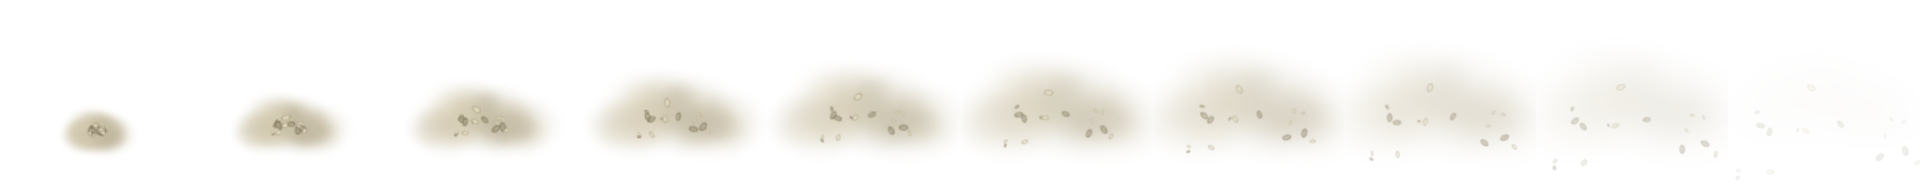
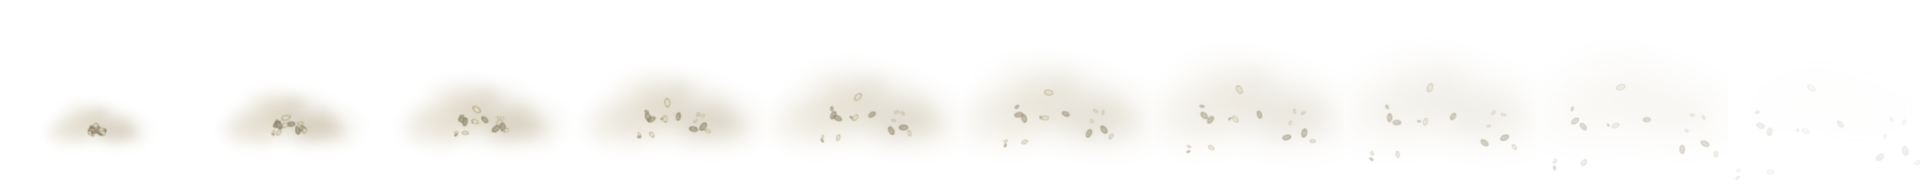
Realistic splatter: rendered blood/dust/spark/spell sprites (gorefx2.js), fix gore not showing in fights

diff --git a/game/i18n_gore.js b/game/i18n_gore.js
@@ -19,3 +19,23 @@ Object.assign(I18N_EXTRA.words, {
   "Settings → Fights → Blood and gore: Off, Low or Full. Everyone in a shared fight sees the same spray.":
     "Ustawienia → Walki → Krew i flaki: Wył., Niskie albo Pełne. We wspólnej walce wszyscy widzą te same bryzgi.",
 });
+
+/* gorefx2.js: realistic splatter patch note (b171-gorefx) */
+Object.assign(I18N_EXTRA.words, {
+  "Realistic blood and splatter":
+    "Realistyczna krew i rozbryzgi",
+  "Blows now throw real-looking blood: a wet burst of drops and fine mist flies away from whoever struck, bigger the harder the hit.":
+    "Ciosy wyrzucają teraz krew, która wygląda prawdziwie: mokry bryzg kropel i drobnej mgiełki leci w stronę przeciwną do atakującego, tym większy, im mocniej uderzysz.",
+  "Critical hits and finishing blows add a jet of blood and a wide splash, splatter the ground and smear the foe. The stains slowly fade over the fight.":
+    "Trafienia krytyczne i dobicia dodają strumień krwi i szeroki rozbryzg, plamią ziemię i brudzą wroga. Plamy powoli bledną w trakcie walki.",
+  "Hammers and maces kick up dust and spill less blood. Draugr and skeletons burst into grave dust and bone chips, Dwemer machines spit oil and sparks, Falmer and chaurus bleed green and daedra dark ichor. A blade on armour throws sparks.":
+    "Młoty i buzdygany wzbijają kurz i leją mniej krwi. Draugry i szkielety rozsypują się w grobowy pył i odpryski kości, krasnoludzkie maszyny plują olejem i iskrami, Falmerowie i chaurusy krwawią na zielono, a daedra ciemną posoką. Ostrze na zbroi krzesze iskry.",
+  "Spells look better too: frost throws ice shards, fire throws embers and smoke, lightning crackles and other magic leaves glowing motes.":
+    "Czary też wyglądają lepiej: mróz sypie odłamkami lodu, ogień sypie żarem i dymem, błyskawice trzaskają, a inna magia zostawia świecące drobinki.",
+  "Followers and horses bleed a little but are never splattered or cut up, and still only get knocked down.":
+    "Towarzysze i konie trochę krwawią, ale nigdy nie są zachlapani ani pocięci i dalej tylko padają powaleni.",
+  "Blood and gore on Full shows all of it; Low keeps the dust, sparks and spell effects without the realistic blood; Off shows none.":
+    "Krew i flaki na Pełne pokazuje wszystko; Niskie zostawia kurz, iskry i efekty czarów bez realistycznej krwi; Wył. nie pokazuje nic.",
+  "Fixed: blood and gore were not showing in fights at all. They're back.":
+    "Poprawka: krew i flaki w ogóle nie pokazywały się w walkach. Już wróciły.",
+});

diff --git a/game/patchnotes.js b/game/patchnotes.js
@@ -3,6 +3,15 @@
    one-time "What's new" popup keys on. */
 const PATCHNOTES = (() => {
   const LIST = [
+    { id: "b171-gorefx", build: 171, date: "25 Nov 2026", title: "Realistic blood and splatter", items: [
+      "Blows now throw real-looking blood: a wet burst of drops and fine mist flies away from whoever struck, bigger the harder the hit.",
+      "Critical hits and finishing blows add a jet of blood and a wide splash, splatter the ground and smear the foe. The stains slowly fade over the fight.",
+      "Hammers and maces kick up dust and spill less blood. Draugr and skeletons burst into grave dust and bone chips, Dwemer machines spit oil and sparks, Falmer and chaurus bleed green and daedra dark ichor. A blade on armour throws sparks.",
+      "Spells look better too: frost throws ice shards, fire throws embers and smoke, lightning crackles and other magic leaves glowing motes.",
+      "Followers and horses bleed a little but are never splattered or cut up, and still only get knocked down.",
+      "Blood and gore on Full shows all of it; Low keeps the dust, sparks and spell effects without the realistic blood; Off shows none.",
+      "Fixed: blood and gore were not showing in fights at all. They're back.",
+    ] },
     { id: "b170-sides", build: 170, date: "24 Nov 2026", title: "Pick a side: Stormcloaks, Legion or Thalmor", items: [
       "Player clans are gone. At level 20 a courier brings you three letters, and a new quest, Pick a Side, sends you to the recruiters in Windhelm, Solitude and the Thalmor Embassy. Hear them out and swear to one. Players already past level 20 get the quest the next time they play.",
       "Old clans are disbanded with a note. Your old guild hall stays open to its members, and holds now belong to sides: war points, Jarls and hold seats work by side instead of by clan. Friends and parties work as before.",

diff --git a/game/fightart.js b/game/fightart.js
@@ -761,7 +761,7 @@ const FIGHTART = (() => {
     const NECK = -52 * fSize;
     // [OURS] blood and gore (gore.js): sprays, splats that stay for the fight, streaks on the hurt, pools, flourishes. Seeded, so every phone sees the same.
     const fightOf = f.tbTall && Object.getPrototypeOf(f) !== Object.prototype ? Object.getPrototypeOf(f) : f;   // a turn-by-turn screen is a view of the whole fight: its splats stay turn to turn
-    const GS = typeof GORE !== "undefined" && GORE.on() ? GORE.scene({ fight: fightOf, W, H: Hh, groundY, s, pixel, reduce: rm, foeK, foeName: rec.foeName, tags: f.e?.tags, ehpMax }) : null;
+    const GS = typeof GORE !== "undefined" && GORE.on() ? GORE.scene({ fight: fightOf, W, H: Hh, groundY, s, pixel: false, reduce: rm, foeK, foeName: rec.foeName, tags: f.e?.tags, ehpMax }) : null;
     const goreKey = (b, i) => `${(f.log || [])[b.li]?.turn ?? b.li}|${b.li}|${b.who}|${b.dmg ?? 0}|${i}`;
     let deathK = null, camF = 0.5;
     const meleeOf = (b) => !!b && !MOVES[b.move]?.proj && !["self", "potion", "wait", "block", "cast", "shout"].includes(b.move);

diff --git a/game/gorefx2.js b/game/gorefx2.js
@@ -35,8 +35,8 @@ const GOREFX2 = (() => {
   /* what a blow shows: a list of [sheet, size (world units × s), angle jitter] — pure, tested in node */
   function planOf(type, mat, o = {}) {
     const lv = o.level || "full", full = lv === "full", out = [], side = o.side || "foe", ally = side !== "foe" && side !== "hero";
-    const frac = Math.max(0, Math.min(1, o.frac ?? 0.1)), big = (o.crit ? 1.35 : 1) * (o.final ? 1.5 : 1) * (o.power ? 1.15 : 1);
-    const k = Math.min(2.4, (0.55 + frac * 2.4) * big) * (mat === "dragon" ? 1.35 : 1) * (ally ? 0.6 : 1);
+    const frac = Math.max(0, Math.min(1, o.frac ?? 0.1)), big = (o.crit ? 1.25 : 1) * (o.final ? 1.35 : 1) * (o.power ? 1.1 : 1);
+    const k = Math.min(2.1, (0.55 + frac * 2.2) * big) * (mat === "dragon" ? 1.35 : 1) * (ally ? 0.6 : 1);
     const bleeds = !!BLEED[mat], strong = !!(o.crit || o.final);
     if (type === "fire") out.push(["embers", 62 * k]);
     else if (type === "frost") out.push(["frost", 62 * k]);

diff --git a/scripts/make_gfx.py b/scripts/make_gfx.py
@@ -262,11 +262,11 @@ def dust(name, seed, size=192, frames=10, cols=("#8a7a62", "#b3a588", "#6e604c")
         t = (fi + 0.7) / frames
         cv = Canvas(W, H)
         for i in range(n):
-            dr = 1 - math.exp(-t * 3.2)
+            dr = 0.3 + 0.7 * (1 - math.exp(-t * 3.2))
             x = W / 2 + math.cos(ang[i]) * sp[i] * dr
             y = H * 0.72 + math.sin(ang[i]) * sp[i] * dr * 0.6 - t * W * 0.05
             r = r0[i] * (1 + t * 2.4)
-            cv.blob(x, y, r, r * 0.85, 0, cs[i % 3], 0.28 * (1 - t) ** 1.3, soft=1.0)
+            cv.blob(x, y, r, r * 0.85, 0, cs[i % 3], 0.13 * min(1, 0.4 + t * 3) * (1 - t) ** 1.3, soft=1.2)
         for i in range(chips):
             tt = t * 0.55
             x = W / 2 + math.cos(ch_ang[i]) * ch_sp[i] * tt

diff --git a/ROADMAP.md b/ROADMAP.md
@@ -69,6 +69,7 @@ our own marked [OURS]; plain-language UI; phone first.
 - Smart AI combat (default; custom tactics optional), crafting mini-games, motion design (63)
 
 ## In progress (write your name before you start)
+- Claude: realistic splatter (gorefx2.js + gfx-*.webp from scripts/make_gfx.py): rendered blood bursts/jets/mist, ground and body splatter decals that fade over the fight, dust/bone chips, oil+sparks, frost shards, embers, shock arcs, magic motes; wraps GORE.scene (no fightart change except the broken `pixel` reference); Low = no rendered blood, Off = none; capped pool, ≤1.15x blow-up; tests/test_gorefx2.js, tests/gorefx2_ui.py. Branch claude/gorefx.
 - Claude: travel strip motion (travelart.js + figart.js horse): one shared figure scale and feet line, sprites placed by their feet anchor, stride-locked walk/gallop cycles (no sliding), real horse gaits with planted hooves (IK legs), horses walk when anyone is on foot, name tags above heads without overlaps, the carriage drawn again, caravan horse from figart; tests/travelanim_ui.py. Branch claude/travelanim.
 - Claude: levelling like Skyrim (levelup.js): skill increases come through one place (G.skillRose / G.raiseSkill: books, trainers too), centred "<Skill> increased to N" notice with skill bar + level bar, big LEVEL UP moment, three pillars (+10 Health/Magicka/Stamina, Stamina +5 carry) opened from Skills or the compass, banked level-ups, glowing "Level up" on the compass, LEVELUP.on("level"|"skill"|"choice") hook + window "levelup" event (for sides at level 20), maximums on your public card; tests/test_levelup.js, tests/levelup_ui.py. Branch claude/levelup.
 - Claude: followers learn like you (folbuild.js, i18n_folbuild.js): their own skills rise with use and level them up (auto Health/Magicka/Stamina), their build follows the gear you give them (bow/staff/two-hander/sword+shield/dagger), free respec and auto perks in the build's trees with real perkfx effects, build-aware AI (tanks taunt), Follower → Skills view, old saves migrated; tests/test_folbuild.js, tests/test_folbuild_sim.js, tests/folbuild_ui.py. Branch claude/followerbuilds.
